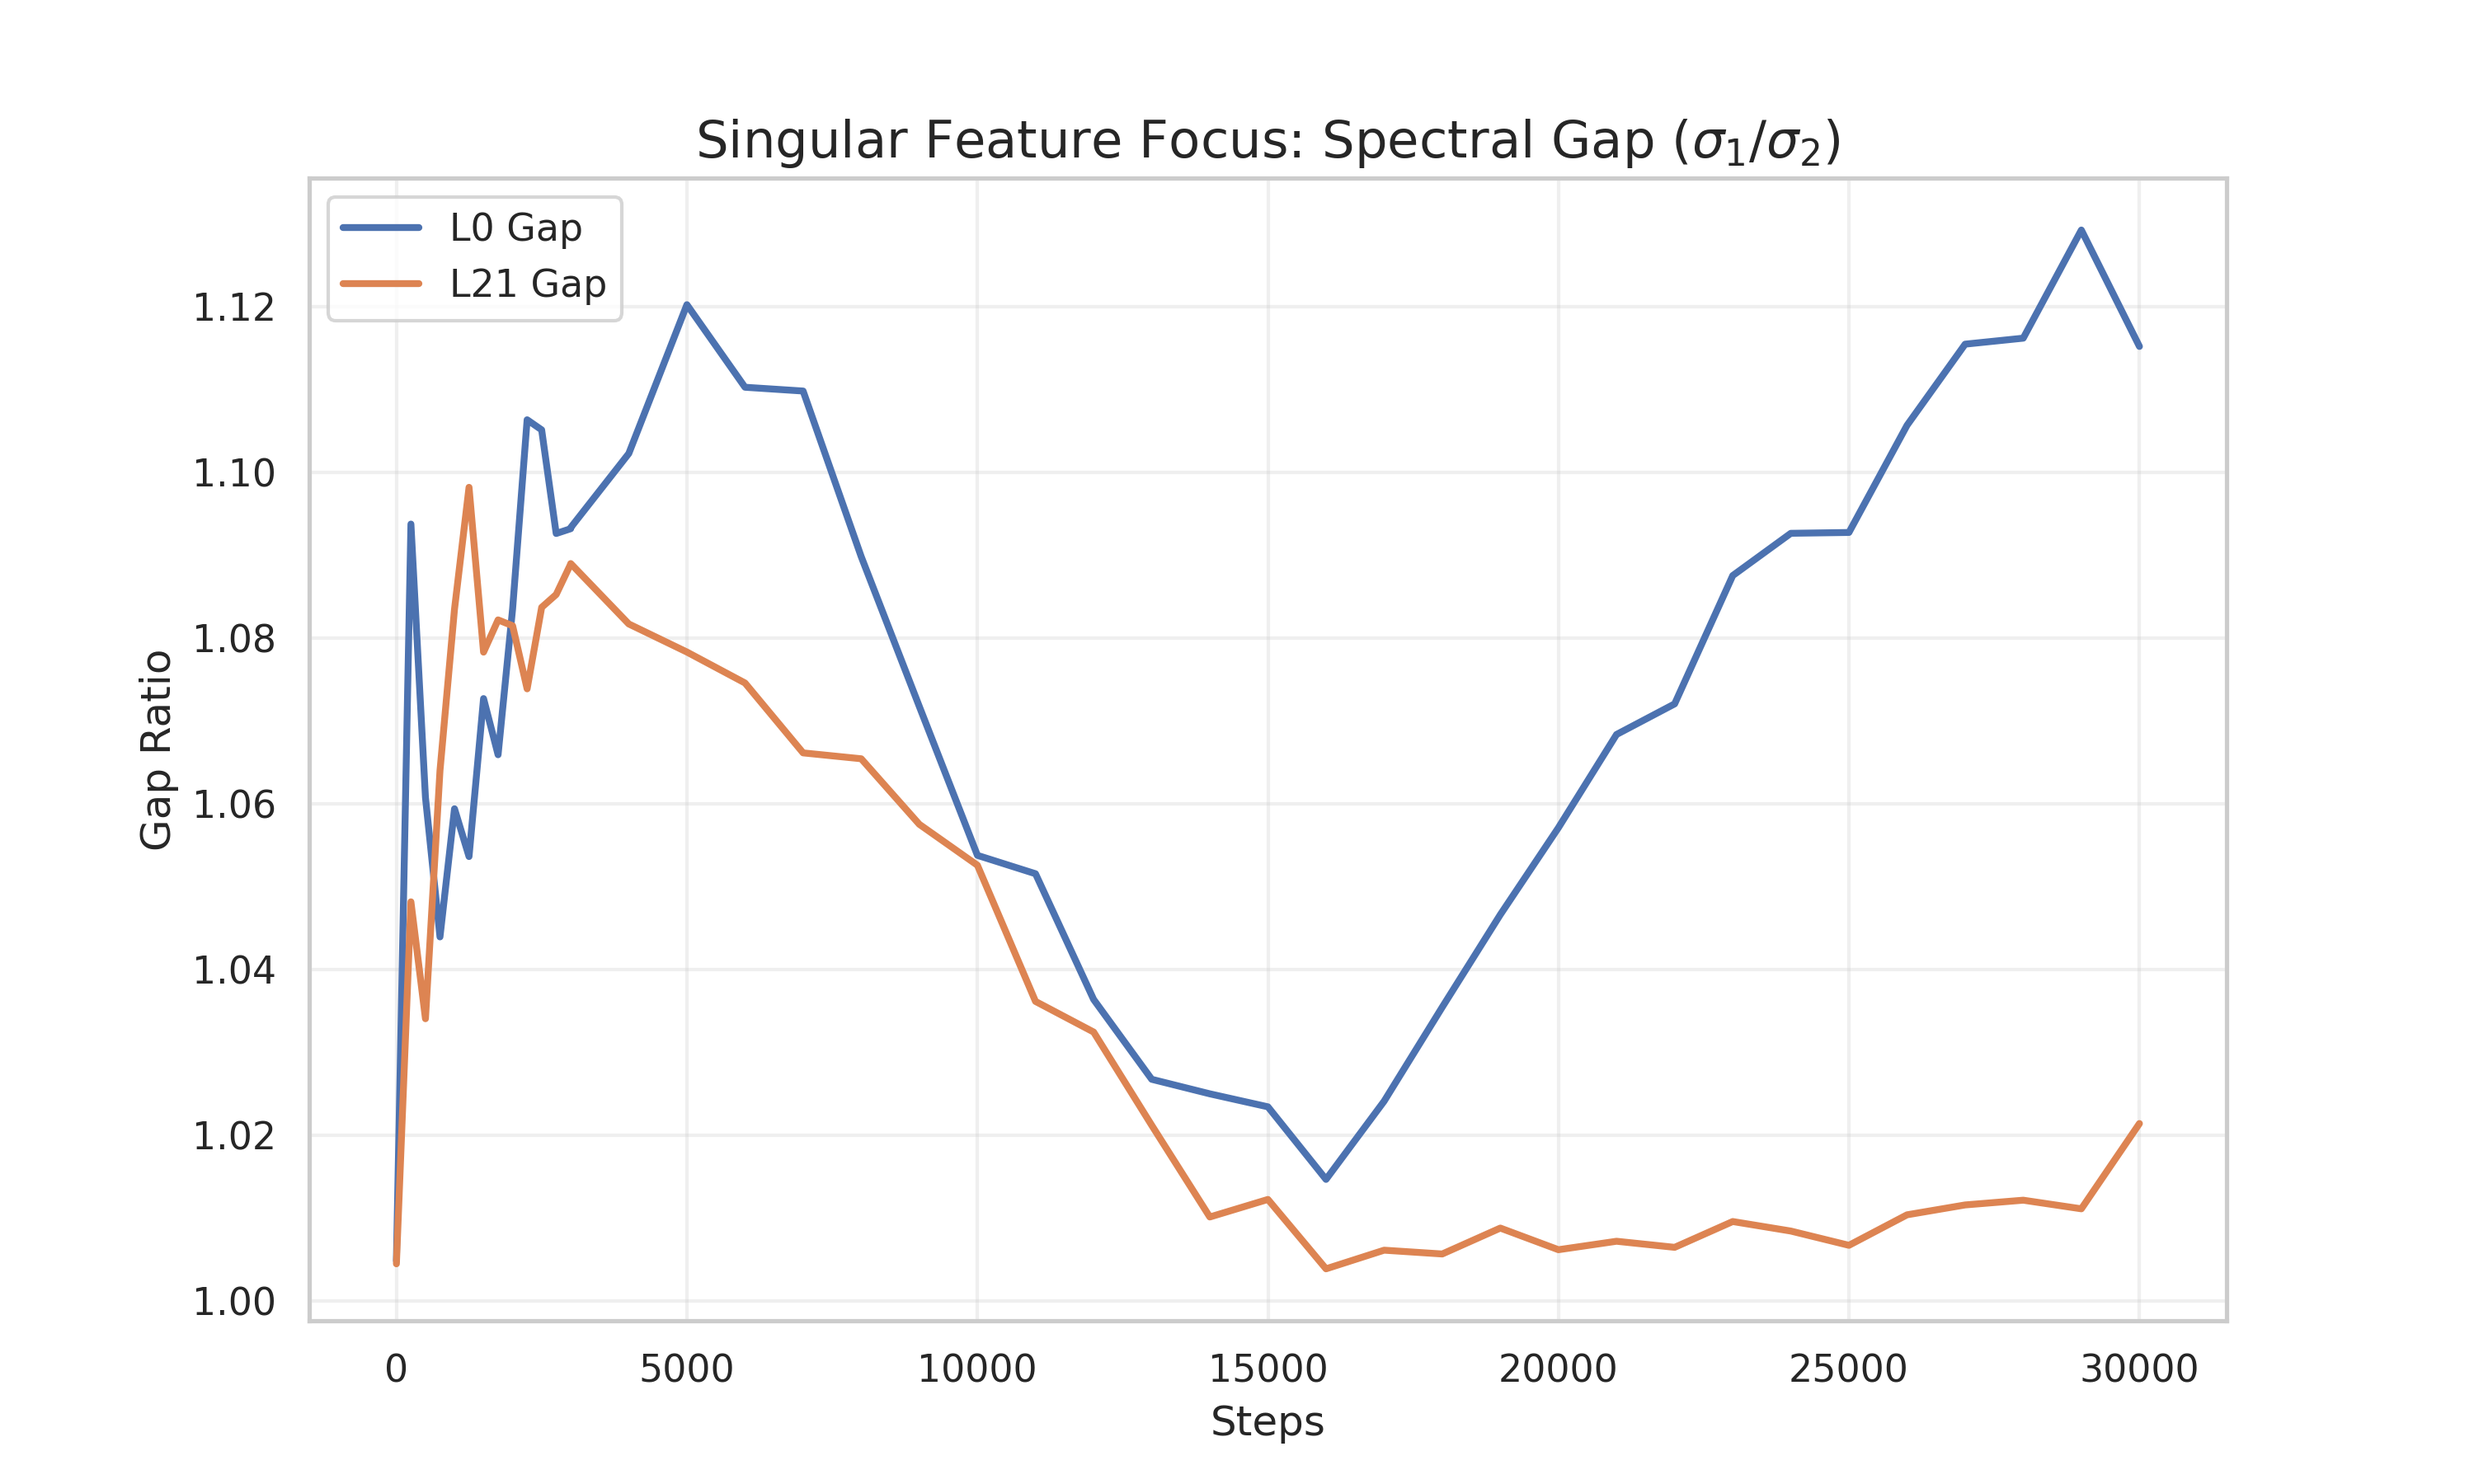
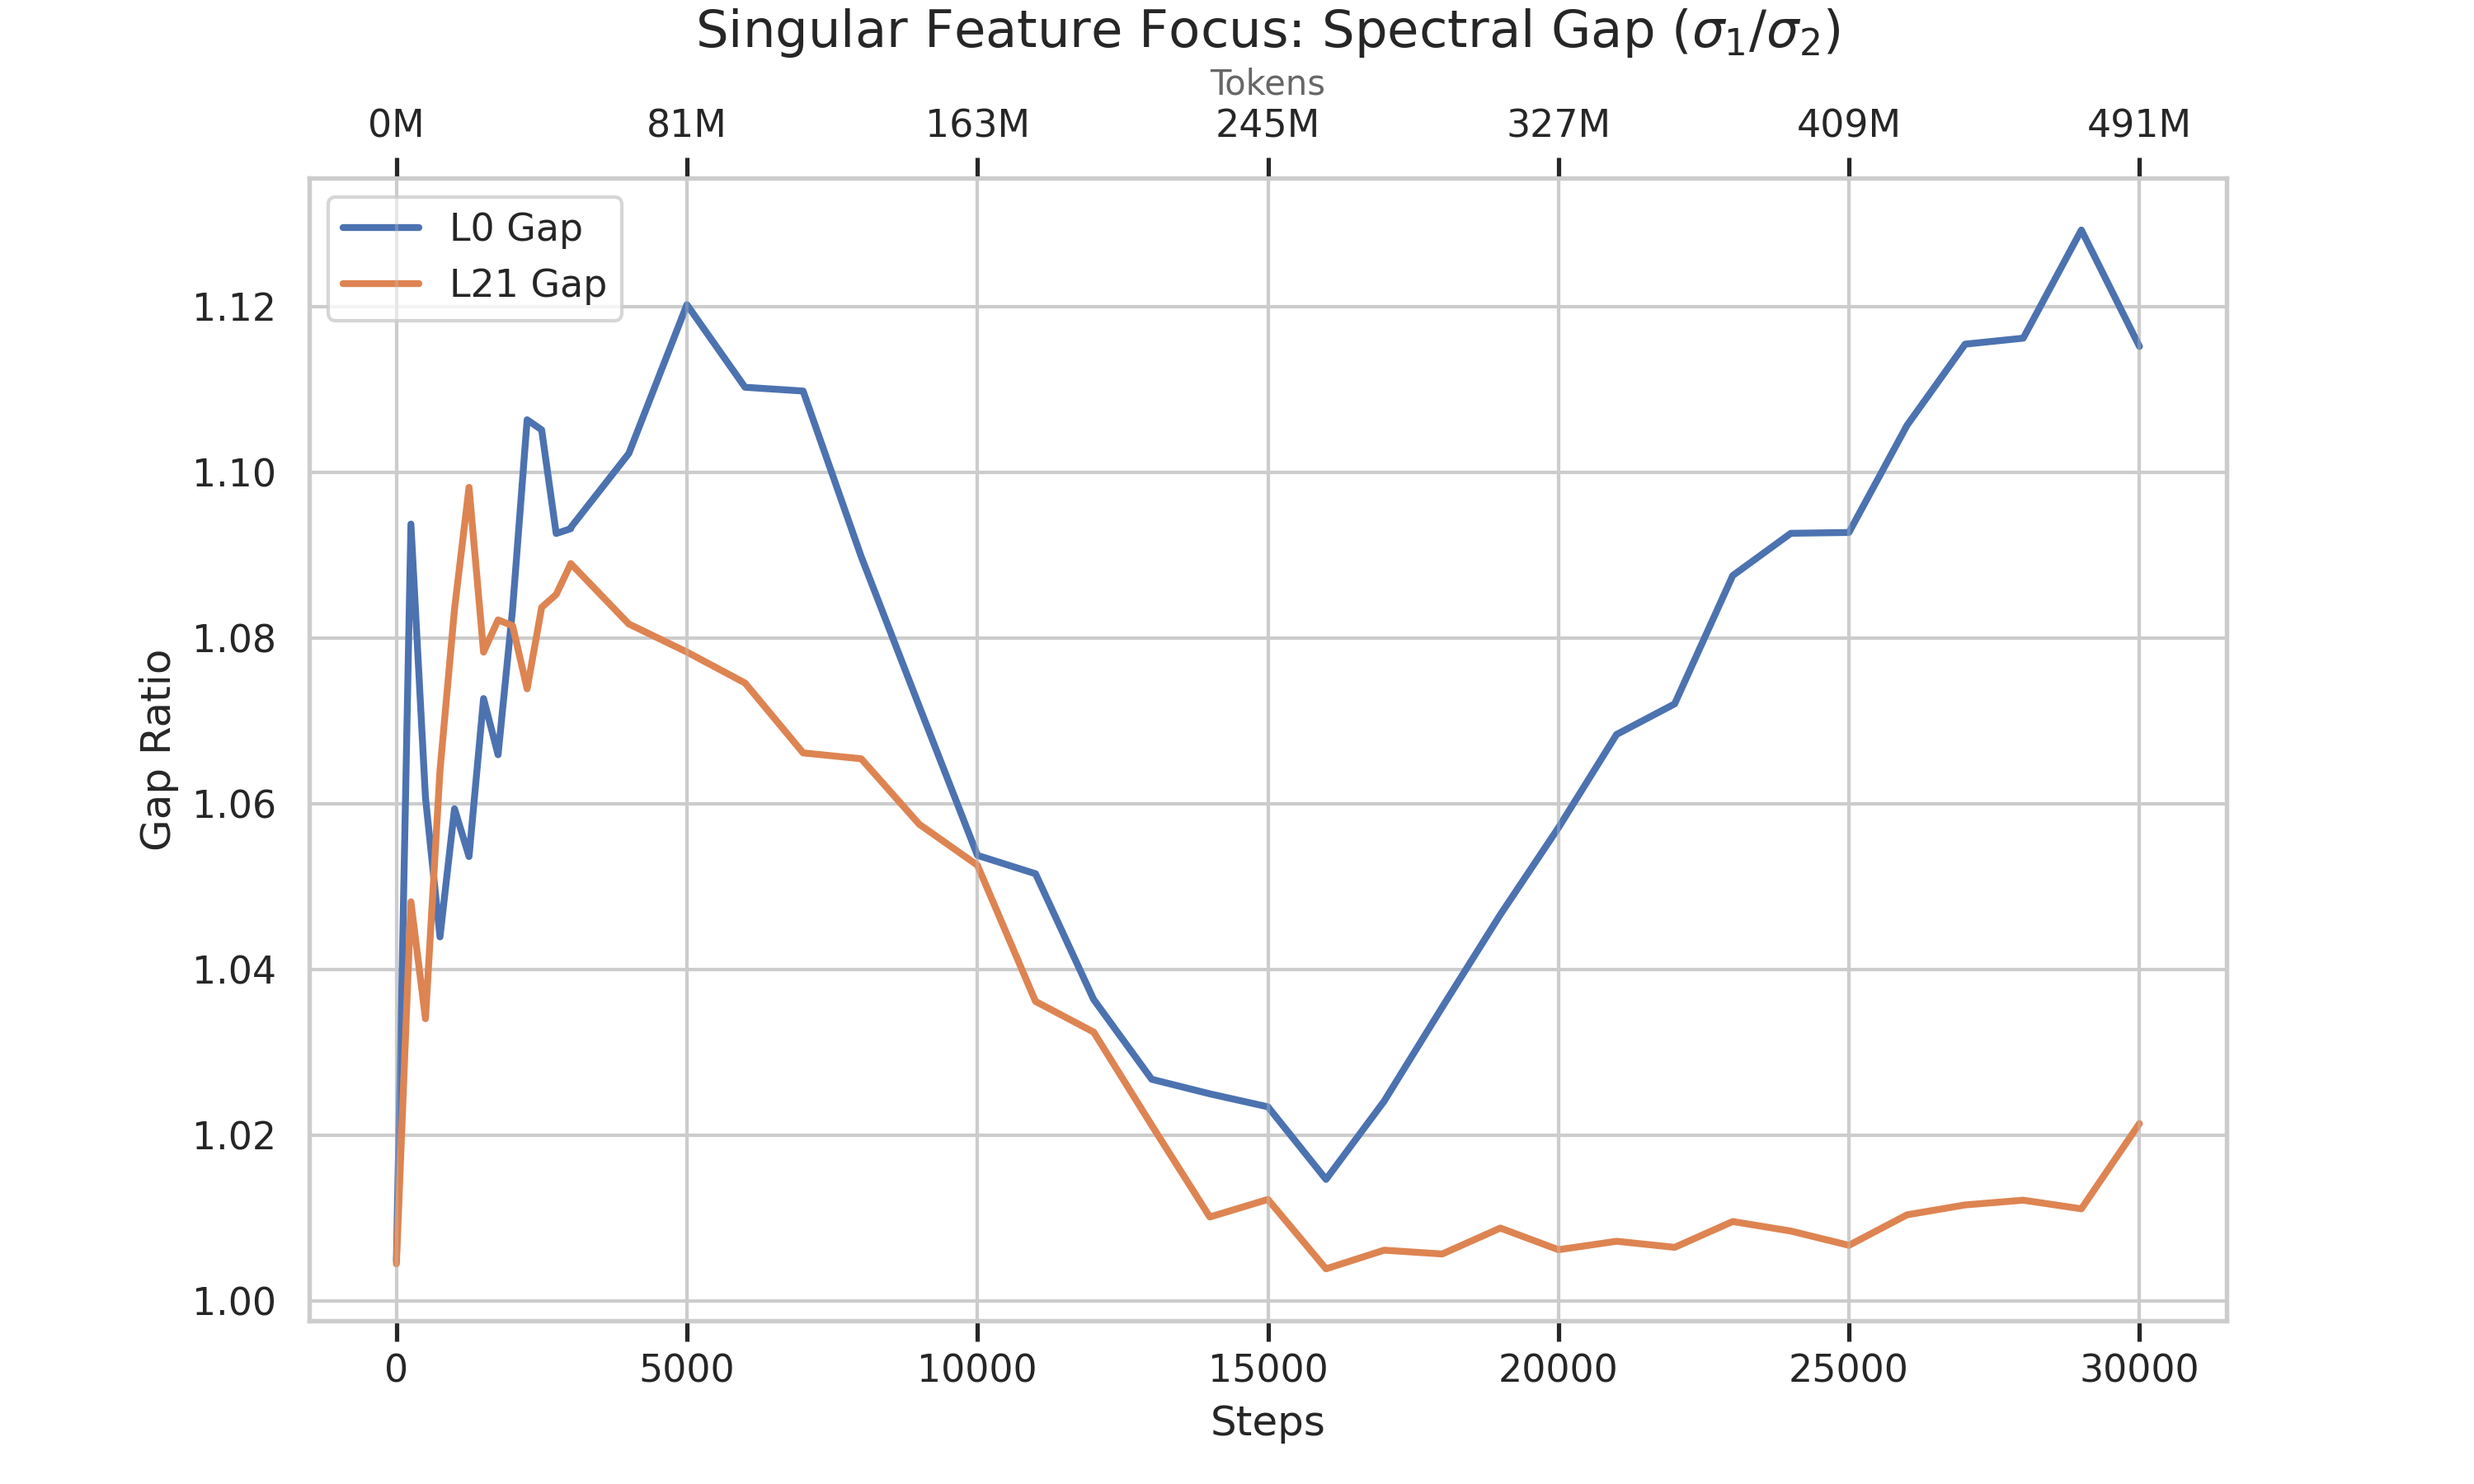
feat: Record tokens seen in manifold history and add a secondary token x-axis to research plots.

diff --git a/research_muon/track_manifold.py b/research_muon/track_manifold.py
@@ -68,14 +68,37 @@ def plot_results(history, save_dir):
 
     sns.set_theme(style="whitegrid")
     steps = history.get('steps', None)
+    tokens = history.get('tokens', None)
+    
+    # Infer tokens if missing (approximate: 16384 tokens per step)
+    if tokens is None and steps is not None:
+        tokens = [s * 16384 for s in steps]
+
+    def add_token_x_axis(ax, steps_data, tokens_data):
+        if tokens_data is None or len(tokens_data) < 2 or steps_data is None or len(steps_data) < 2:
+            return
+        ax2 = ax.twiny()
+        ax2.set_xlim(ax.get_xlim())
+        xticks = ax.get_xticks()
+        valid_mask = (xticks >= min(steps_data)) & (xticks <= max(steps_data))
+        valid_ticks = xticks[valid_mask]
+        if len(valid_ticks) > 0:
+            token_ticks = np.interp(valid_ticks, steps_data, tokens_data)
+            ax2.set_xticks(valid_ticks)
+            ax2.set_xticklabels([f"{int(t/1e6):,}M" for t in token_ticks])
+            ax2.set_xlabel('Tokens', alpha=0.7, fontsize=10)
+            ax2.grid(False)
     
     # 1. Training Loss
     plt.figure(figsize=(10, 6))
     if 'loss' in history and history['loss']:
-        plt.plot(history['loss'], color='#2c3e50', linewidth=2)
+        x_axis = steps if steps is not None and len(steps) == len(history['loss']) else range(len(history['loss']))
+        plt.plot(x_axis, history['loss'], color='#2c3e50', linewidth=2)
         plt.title('Training Loss Convergence', fontsize=15)
         plt.xlabel('Steps')
         plt.ylabel('Loss')
+        if steps is not None:
+            add_token_x_axis(plt.gca(), steps, tokens)
         plt.grid(True, alpha=0.3)
         plt.savefig(os.path.join(save_dir, 'loss.png'), dpi=300)
     plt.close()
@@ -100,6 +123,8 @@ def plot_results(history, save_dir):
     plt.xlabel('Steps')
     plt.ylabel('$\sigma_max$ (Operator Norm)')
     plt.legend(frameon=True, loc='upper left')
+    if steps is not None:
+        add_token_x_axis(plt.gca(), steps, tokens)
     plt.grid(True, alpha=0.3)
     plt.savefig(os.path.join(save_dir, 'spectral_stretching_evolution.png'), dpi=300)
     plt.close()
@@ -121,8 +146,9 @@ def plot_results(history, save_dir):
     plt.title('Geometric Lock-in: Update-Weight Subspace Alignment (k=5)', fontsize=16)
     plt.xlabel('Steps')
     plt.ylabel('Average Cosine Similarity')
-    plt.ylim(0, 1.05)
     plt.legend(frameon=True)
+    if steps is not None:
+        add_token_x_axis(plt.gca(), steps, tokens)
     plt.grid(True, alpha=0.3)
     plt.savefig(os.path.join(save_dir, 'update_alignment.png'), dpi=300)
     plt.close()
@@ -144,6 +170,8 @@ def plot_results(history, save_dir):
     plt.xlabel('Steps')
     plt.ylabel('Departure from Orthogonality')
     plt.legend(frameon=True)
+    if steps is not None:
+        add_token_x_axis(plt.gca(), steps, tokens)
     plt.grid(True, alpha=0.3)
     plt.savefig(os.path.join(save_dir, 'orthogonality_error.png'), dpi=300)
     plt.close()
@@ -250,6 +278,8 @@ def plot_results(history, save_dir):
     plt.xlabel('Steps')
     plt.ylabel('Gap Ratio')
     plt.legend()
+    if steps is not None:
+        add_token_x_axis(plt.gca(), steps, tokens)
     plt.grid(True, alpha=0.3)
     plt.savefig(os.path.join(save_dir, 'spectral_gap.png'), dpi=300)
     plt.close()
@@ -260,6 +290,8 @@ def plot_results(history, save_dir):
     
     for i, c in zip(ratio_layers, colors):
         r_key = f'update_rank_Q_{i}'
+        if r_key not in history:
+            r_key = f'update_rank_{i}'
         a_key = f'alignment_Q_{i}'
         if r_key in history and a_key in history:
             ranks = np.array(history[r_key])
@@ -273,6 +305,8 @@ def plot_results(history, save_dir):
     plt.xlabel('Steps')
     plt.ylabel('Efficiency (High = Sharp Needle)')
     plt.legend()
+    if steps is not None:
+        add_token_x_axis(plt.gca(), steps, tokens)
     plt.grid(True, alpha=0.3)
     plt.savefig(os.path.join(save_dir, 'subspace_efficiency.png'), dpi=300)
     plt.close()
@@ -283,6 +317,8 @@ def plot_results(history, save_dir):
     for i, (qc, vc) in enumerate(zip(colors, v_colors)):
         layer_idx = 0 if i == 0 else last_idx
         qr_key = f'update_rank_Q_{layer_idx}'
+        if qr_key not in history:
+            qr_key = f'update_rank_{layer_idx}'
         vr_key = f'update_rank_V_{layer_idx}'
         
         if qr_key in history:
@@ -301,6 +337,8 @@ def plot_results(history, save_dir):
     plt.xlabel('Steps')
     plt.ylabel('Effective Rank of Momentum')
     plt.legend()
+    if steps is not None:
+        add_token_x_axis(plt.gca(), steps, tokens)
     plt.grid(True, alpha=0.3)
     plt.savefig(os.path.join(save_dir, 'update_rank_evolution.png'), dpi=300)
     plt.close()

diff --git a/training/trainer.py b/training/trainer.py
@@ -326,6 +326,7 @@ def train_model(
                         # Add loss and steps to manifold history for synchronization
                         metrics_history['manifold_history']['loss'].append(current_loss_val)
                         metrics_history['manifold_history']['steps'].append(step)
+                        metrics_history['manifold_history']['tokens'].append(tokens_seen)
             
             pbar.update(batch_tokens)
             tokens_seen += batch_tokens
